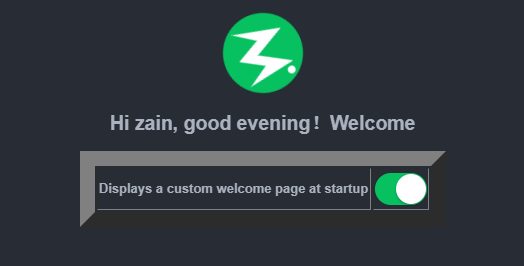
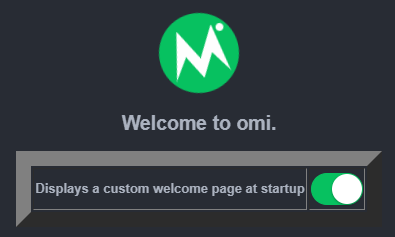
update assets and README.md

Changed region(s): [[0.0304, 0.4135, 0.9722, 0.9451], [0.3949, 0.0591, 0.6076, 0.4135], [0.4861, 0.0295, 0.5165, 0.0591]]

diff --git a/README.md b/README.md
@@ -1,54 +1,59 @@
 English | [简体中文](https://github.com/ZainChen/omi-vscode/blob/master/README.CN.md)
 
 # Omi Visual Studio Code extension
-[![VisualStudioMarketplace](https://img.shields.io/badge/VisualStudioMarketplace-v2.1.6-orange.svg)](https://marketplace.visualstudio.com/items?itemName=ZainChen.omi)
-[![Downloads](https://img.shields.io/badge/Downloads-4.7K%2B-brightgreen.svg)](https://marketplace.visualstudio.com/items?itemName=ZainChen.omi)
-[![UpdateTime](https://img.shields.io/badge/UpdateTime-2019%2F06%2F13%2011%3A30%3A25-blue.svg)](https://marketplace.visualstudio.com/items?itemName=ZainChen.omi)
+[![VisualStudioMarketplace](https://img.shields.io/badge/VisualStudioMarketplace-v2.1.8-orange.svg)](https://marketplace.visualstudio.com/items?itemName=ZainChen.omi)
+[![Downloads](https://img.shields.io/badge/Downloads-5.1K%2B-brightgreen.svg)](https://marketplace.visualstudio.com/items?itemName=ZainChen.omi)
+[![UpdateTime](https://img.shields.io/badge/UpdateTime-2019%2F06%2F15%2009%3A30%3A25-blue.svg)](https://marketplace.visualstudio.com/items?itemName=ZainChen.omi)
 
 This extension adds omi support for Visual Studio Code.
 
 # Function
-- Omi ecosystem `[All branches and versions(Upgrading, temporarily closed)]`
-- Omi component tag and attribute completion `[Completion prompt for markdown format]`
-- Omi custom code highlighting injection `[Tag attribute support json highlight, omi css highlight]`
-- Omi mouse hover prompt, the prompt content is in markdown format `[Support user-defined add prompt information]`
-- Omi snippets `[All omiu component snippets. Multiple overlays, press TAB to jump to the transition position]`
 - Welcome omi `[Welcome Screen]`
+- Omi component tag and attribute completion `[Completion prompt for markdown format]`
+- Omi mouse hover prompt, the prompt content is in markdown format `[Support user-defined add prompt information]`
+- Omi custom code highlighting injection `[Tag attribute support json highlight, omi css highlight]`
+- Omi snippets `[All omiu component snippets. Multiple overlays, press TAB to jump to the transition position]`
+
+# Development Plan
+- Omi ecosystem `[All branches and versions(Upgrading, temporarily closed)]`
 - GitHub switch `[GitHub tree view to switch url(Upgrading, temporarily closed)]`
 - GitHub file view `[open github file(Upgrading, temporarily closed)]`
 - Gitgub file download function. `[Any files and folders(Upgrading, temporarily closed)]`
-- In development...
 
-# Label completion
+# Function Description
+
+## Omi Welcome
+<p><img src="https://raw.githubusercontent.com/ZainChen/omi-vscode/master/assets/function/fun7.png" alt="omi"/></p>
+
+## Label completion
+User-defined prompt information: https://github.com/ZainChen/omi-vscode/blob/master/src/completion/README.md
 <p><img src="https://raw.githubusercontent.com/ZainChen/omi-vscode/master/assets/function/fun1.gif" alt="omi"/></p>
 
-# Attribute completion
+## Attribute completion
+User-defined prompt information: https://github.com/ZainChen/omi-vscode/blob/master/src/completion/README.md
 <p><img src="https://raw.githubusercontent.com/ZainChen/omi-vscode/master/assets/function/fun2.gif" alt="omi"/></p>
 
-# Code highlighting injection
-Custom code highlighting injection `[Html file tag attribute support json highlight]`
-<p><img src="https://raw.githubusercontent.com/ZainChen/omi-vscode/master/assets/function/fun10.png" alt="omi"/></p>
-
-# Function snippets
-<p><img src="https://raw.githubusercontent.com/ZainChen/omi-vscode/master/assets/function/fun3.gif" alt="omi"/></p>
-
-# Hover
+## Hover
 User-defined prompt information: https://github.com/ZainChen/omi-vscode/blob/master/src/hover/README.md
 <p><img src="https://raw.githubusercontent.com/ZainChen/omi-vscode/master/assets/function/fun9.gif" alt="omi"/></p>
 
-# GitHub switch
-<p><img src="https://raw.githubusercontent.com/ZainChen/omi-vscode/master/assets/function/fun4.gif" alt="omi"/></p>
+## Code highlighting injection
+Custom code highlighting injection `[Html file tag attribute support json highlight]`
+<p><img src="https://raw.githubusercontent.com/ZainChen/omi-vscode/master/assets/function/fun10.png" alt="omi"/></p>
 
-# Omi ecosystem
+## Function snippets
+<p><img src="https://raw.githubusercontent.com/ZainChen/omi-vscode/master/assets/function/fun3.gif" alt="omi"/></p>
+
+## Omi ecosystem (Coming soon)
 <p><img src="https://raw.githubusercontent.com/ZainChen/omi-vscode/master/assets/function/fun5.gif" alt="omi"/></p>
 
-# GitHub file view and download
+## GitHub switch (Upgrading, temporarily closed)
+<p><img src="https://raw.githubusercontent.com/ZainChen/omi-vscode/master/assets/function/fun4.gif" alt="omi"/></p>
+
+## GitHub file view and download (Upgrading, temporarily closed)
 <p><img src="https://raw.githubusercontent.com/ZainChen/omi-vscode/master/assets/function/fun6.gif" alt="omi"/></p>
 
-# Omi Welcome
-<p><img src="https://raw.githubusercontent.com/ZainChen/omi-vscode/master/assets/function/fun7.png" alt="omi"/></p>
-
-# Omi set
+## Omi set
 <p><img src="https://raw.githubusercontent.com/ZainChen/omi-vscode/master/assets/function/fun8.png" alt="omi"/></p>
 
 # About

diff --git a/README.CN.md b/README.CN.md
@@ -1,54 +1,59 @@
 [English](https://github.com/ZainChen/omi-vscode/blob/master/README.md) | 简体中文
 
 # Omi Visual Studio Code 扩展
-[![VisualStudioMarketplace](https://img.shields.io/badge/VisualStudioMarketplace-v2.1.6-orange.svg)](https://marketplace.visualstudio.com/items?itemName=ZainChen.omi)
-[![Downloads](https://img.shields.io/badge/Downloads-4.7K%2B-brightgreen.svg)](https://marketplace.visualstudio.com/items?itemName=ZainChen.omi)
-[![UpdateTime](https://img.shields.io/badge/UpdateTime-2019%2F06%2F13%2011%3A30%3A25-blue.svg)](https://marketplace.visualstudio.com/items?itemName=ZainChen.omi)
+[![VisualStudioMarketplace](https://img.shields.io/badge/VisualStudioMarketplace-v2.1.8-orange.svg)](https://marketplace.visualstudio.com/items?itemName=ZainChen.omi)
+[![Downloads](https://img.shields.io/badge/Downloads-5.1K%2B-brightgreen.svg)](https://marketplace.visualstudio.com/items?itemName=ZainChen.omi)
+[![UpdateTime](https://img.shields.io/badge/UpdateTime-2019%2F06%2F15%2009%3A30%3A25-blue.svg)](https://marketplace.visualstudio.com/items?itemName=ZainChen.omi)
 
 此扩展添加了对 Visual Studio Code 的 omi 支持。
 
 # 功能
-- Omi 生态系统 `[所有分支和版本(近期开发)]`
-- Omi 组件标签和属性补全 `[补全提示支持 markdown 格式]`
+- Omi 欢迎界面 `[欢迎大家使用 Omi]`
+- Omi 组件标签和属性补全, 补全提示支持 markdown `[支持用户自定义添加补全信息, 按 TAB 跳转到过渡位置]`
+- Omi 鼠标悬停提示, 提示内容支持 markdown `[支持用户自定义添加提示信息]`
 - Omi 自定义代码高亮注入 `[标签属性支持 json 高亮, omi css 高亮]`
-- Omi 鼠标悬停提示, 提示内容为 markdown 格式 `[支持用户自定义添加提示信息]`
-- Omi 片段 `[omiu 所有组件片段。按 TAB 跳转到过渡位置]`
-- Omi 欢迎界面 `[欢迎大家使用 omi-vscode]`
+- Omi 片段 `[omiu 所有组件片段, 按 TAB 跳转到过渡位置]`
+
+# 开发计划
+- Omi 生态系统 `[所有模板下载图形界面]`
 - GitHub 切换 `[GitHub 菜单树视图切换任意项目(正在升级，暂时关闭)]`
 - GitHub 文件视图 `[打开 GitHub 文件(正在升级，暂时关闭)]`
 - Gitgub 文件下载功能 `[任意文件和文件夹(正在升级，暂时关闭)]`
-- 更多功能开发中...
 
-# 标签补全
+# 功能说明
+
+## Omi 欢迎界面
+<p><img src="https://raw.githubusercontent.com/ZainChen/omi-vscode/master/assets/function/fun7.png" alt="omi"/></p>
+
+## 标签补全
+用户自定义提示信息说明: https://github.com/ZainChen/omi-vscode/blob/master/src/completion/README.md
 <p><img src="https://raw.githubusercontent.com/ZainChen/omi-vscode/master/assets/function/fun1.gif" alt="omi"/></p>
 
-# 属性补全
+## 属性补全
+用户自定义提示信息说明: https://github.com/ZainChen/omi-vscode/blob/master/src/completion/README.md
 <p><img src="https://raw.githubusercontent.com/ZainChen/omi-vscode/master/assets/function/fun2.gif" alt="omi"/></p>
 
-# 代码高亮注入
+## 鼠标悬停提示
+用户自定义提示信息说明: https://github.com/ZainChen/omi-vscode/blob/master/src/hover/README.md
+<p><img src="https://raw.githubusercontent.com/ZainChen/omi-vscode/master/assets/function/fun9.gif" alt="omi"/></p>
+
+## 代码高亮注入
 自定义代码高亮注入 `[html 文件标签属性支持 json 高亮]`
 <p><img src="https://raw.githubusercontent.com/ZainChen/omi-vscode/master/assets/function/fun10.png" alt="omi"/></p>
 
-# 片段功能
+## 片段功能
 <p><img src="https://raw.githubusercontent.com/ZainChen/omi-vscode/master/assets/function/fun3.gif" alt="omi"/></p>
 
-# 鼠标悬停提示
-用户自定义提示信息说明: https://github.com/ZainChen/omi-vscode/blob/master/src/hover/README.CN.md
-<p><img src="https://raw.githubusercontent.com/ZainChen/omi-vscode/master/assets/function/fun9.gif" alt="omi"/></p>
-
-# GitHub 切换
-<p><img src="https://raw.githubusercontent.com/ZainChen/omi-vscode/master/assets/function/fun4.gif" alt="omi"/></p>
-
-# Omi 生态
+## Omi 生态 (即将开发)
 <p><img src="https://raw.githubusercontent.com/ZainChen/omi-vscode/master/assets/function/fun5.gif" alt="omi"/></p>
 
-# GitHub 文件视图和下载
+## GitHub 切换 (正在升级，暂时关闭)
+<p><img src="https://raw.githubusercontent.com/ZainChen/omi-vscode/master/assets/function/fun4.gif" alt="omi"/></p>
+
+## GitHub 文件视图和下载 (正在升级，暂时关闭)
 <p><img src="https://raw.githubusercontent.com/ZainChen/omi-vscode/master/assets/function/fun6.gif" alt="omi"/></p>
 
-# Omi 欢迎界面
-<p><img src="https://raw.githubusercontent.com/ZainChen/omi-vscode/master/assets/function/fun7.png" alt="omi"/></p>
-
-# Omi 设置
+## Omi 设置
 <p><img src="https://raw.githubusercontent.com/ZainChen/omi-vscode/master/assets/function/fun8.png" alt="omi"/></p>
 
 # 关于
